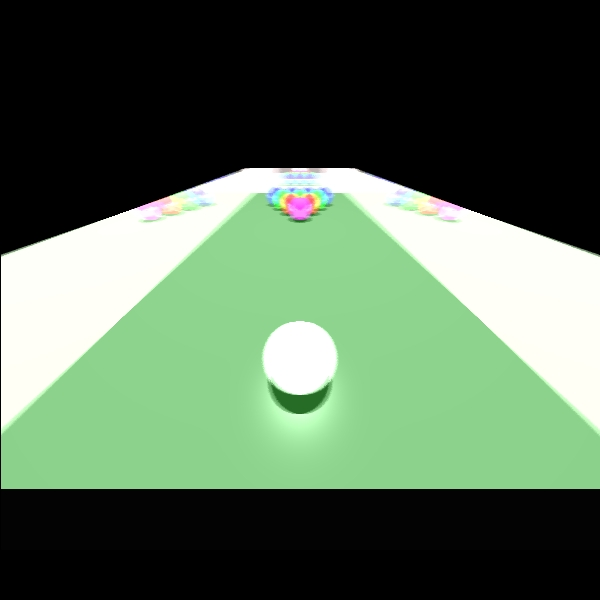
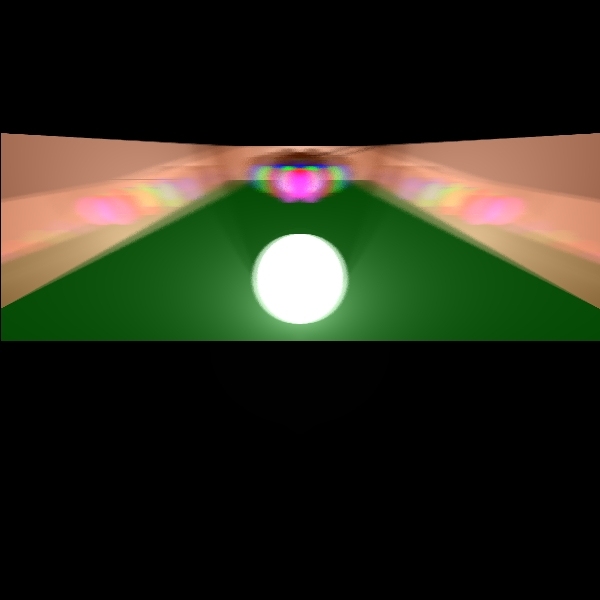
begin stage 5

diff --git a/IME5780-E1-5840-6639/src/unittests/Depth_of_field.java b/IME5780-E1-5840-6639/src/unittests/Depth_of_field.java
@@ -21,80 +21,94 @@ import java.util.Random;
 public class Depth_of_field {
     @Test
     public void snookerTable() {
-        Point3D upRightCorner = new Point3D(120, -250, 0);
-        Point3D upLeftCorner = new Point3D(-120, -250, 0);
-        Point3D downRightCorner = new Point3D(120, 250, 0);
-        Point3D downLeftCorner = new Point3D(-120, 250, 0);
+        Point3D upRightCorner = new Point3D(120, -200, 0);
+        Point3D upLeftCorner = new Point3D(-120, -200, 0);
+        Point3D downRightCorner = new Point3D(120, 200, 0);
+        Point3D downLeftCorner = new Point3D(-120, 200, 0);
         double radiusOfBalls = 15;
 
         Scene scene = new Scene("Depth of field");
-        scene.setCamera(new Camera(new Point3D(0, 230, -80), new Vector(0, -1, 1), new Vector(0, -1, -1),3));
+        scene.setCamera(new Camera(new Point3D(0, 200, -45), new Vector(0, -1, 1), new Vector(0, -1, -1),2));
         scene.setViewPlaneDistance(50);
-        scene.setFocalPlaneDistance(50);
+        scene.setFocalPlaneDistance(10);
         scene.setBackground(Color.BLACK);
-        scene.setAmbientLight(new AmbientLight(new Color(java.awt.Color.WHITE), 0.15));
+        scene.setAmbientLight(new AmbientLight(new Color(java.awt.Color.WHITE), 0.00));
 
-        Color triangleColor = new Color(122,112,112);
+        Color triangleColor = new Color(80,25,0);
         Triangle[] borders = new Triangle[8];
-        Material triangleMaterial = new Material(0.5, 0.5, 60,0,0.8);
+        Material triangleMaterial = new Material(0.5, 0.5, 60,0,0.3);
 
         borders[0] = new Triangle(triangleColor,triangleMaterial , //
-                upRightCorner, downRightCorner, new Point3D(downRightCorner.get_x(),downRightCorner.get_y(),-50));
+                upRightCorner, downRightCorner, new Point3D(downRightCorner.get_x()+5,downRightCorner.get_y(),-50));
         borders[1] = new Triangle(triangleColor,triangleMaterial, //
-                upRightCorner,new Point3D(downRightCorner.get_x(),downRightCorner.get_y(),-50) , new Point3D(upRightCorner.get_x(),upRightCorner.get_y(),-50));
+                upRightCorner,new Point3D(downRightCorner.get_x()+5,downRightCorner.get_y(),-50) , new Point3D(upRightCorner.get_x()+5,upRightCorner.get_y(),-50));
         borders[2] = new Triangle(triangleColor, triangleMaterial, //
-                upRightCorner, upLeftCorner, new Point3D(downRightCorner.get_x(),upRightCorner.get_y(),-50));
+                upRightCorner, upLeftCorner, new Point3D(upRightCorner.get_x()+5,upRightCorner.get_y(),-50));
         borders[3] = new Triangle(triangleColor, triangleMaterial, //
-                upLeftCorner,new Point3D(upLeftCorner.get_x(),upLeftCorner.get_y(),-50) , new Point3D(upRightCorner.get_x(),upRightCorner.get_y(),-50));
+                upLeftCorner,new Point3D(upLeftCorner.get_x()-5,upLeftCorner.get_y(),-50) , new Point3D(upRightCorner.get_x()-5,upRightCorner.get_y(),-50));
         borders[4] = new Triangle(triangleColor, triangleMaterial, //
-                upLeftCorner, downLeftCorner, new Point3D(upLeftCorner.get_x(),upLeftCorner.get_y(),-50));
+                upLeftCorner, downLeftCorner, new Point3D(upLeftCorner.get_x()-5,upLeftCorner.get_y(),-50));
         borders[5] = new Triangle(triangleColor, triangleMaterial, //
-                downLeftCorner,new Point3D(upLeftCorner.get_x(),upLeftCorner.get_y(),-50) , new Point3D(downLeftCorner.get_x(),downLeftCorner.get_y(),-50));
+                downLeftCorner,new Point3D(upLeftCorner.get_x()-5,upLeftCorner.get_y(),-50) , new Point3D(downLeftCorner.get_x()-5,downLeftCorner.get_y(),-50));
 
         scene.addGeometries(borders[0],borders[1],borders[2],borders[3],borders[4],borders[5]);
 
         addBalls(upRightCorner,downRightCorner,upLeftCorner,downLeftCorner,radiusOfBalls,scene);
 
         scene.addGeometries( //
-                new Triangle(new Color(0,70,0), new Material(0.5, 0.5, 60), //
+                new Triangle(new Color(0,70,0), new Material(0.5, 0.5, 60,0.1,0), //
                         upRightCorner, downRightCorner, downLeftCorner), //
-                new Triangle(new Color(0,70,0), new Material(0.5, 0.5, 60), //
+                new Triangle(new Color(0,70,0), new Material(0.5, 0.5, 60,0.1,0), //
                         upRightCorner, upLeftCorner, downLeftCorner));
 
-        scene.addLights(new PointLight(new Color(java.awt.Color.WHITE),new Point3D(-0,0,-880) ,1,4E-5, 2E-7));
+        scene.addLights(new PointLight(new Color(java.awt.Color.WHITE),new Point3D(-0,0,10) ,1,4E-5, 2E-7));
 
         ImageWriter imageWriter = new ImageWriter("snooker table", 200, 200, 600, 600);
         Render render = new Render(imageWriter, scene).setMultithreading(3).setDebugPrint();
 
-        render.renderImage(60);
+        render.renderImage(100);
         render.writeToImage();
     }
 public void addBalls(Point3D upRight, Point3D downRight, Point3D upLeft, Point3D downLeft, double radiusOfBalls, Scene scene){
-        Random rand = new Random();
+    Vector moveLight = new Vector(0,2,-1);
+    Color lightColor = new Color(java.awt.Color.WHITE);
+    Material sphereMaterial = new Material(0.5, 0.5, 60,0.1,0);
+    SpotLight spots = new SpotLight(lightColor,new Point3D(0,0,-radiusOfBalls).add(moveLight),moveLight.scale(-1),1, 4E-5, 2E-7);
         Sphere[] balls = new Sphere[11];
-
         for (int i = 0; i < 4; i++){
-            balls[i] = new Sphere(new Color(java.awt.Color.BLUE),new Material(0.5, 0.5, 60,0,0.6),radiusOfBalls,//
-                    new Point3D(upRight.get_x()/2 - (i*radiusOfBalls*2+radiusOfBalls),upRight.get_y()/2,-radiusOfBalls));
+            Point3D temp = new Point3D(upRight.get_x()/2 - (i*radiusOfBalls*2+radiusOfBalls),upRight.get_y()/2,-radiusOfBalls);
+            balls[i] = new Sphere(new Color(java.awt.Color.BLUE),sphereMaterial,radiusOfBalls,//
+                    temp);
+            //spots[i] = new SpotLight(lightColor,temp.add(moveLight),moveLight.scale(-1),1, 4E-5, 2E-7);
         }
         for (int i = 4 , j =0; i < 7; i++, j++){
-            balls[i] = new Sphere(new Color(java.awt.Color.GREEN),new Material(0.5, 0.5, 60,0,0.6),radiusOfBalls,//
-                    new Point3D(upRight.get_x()/2 - radiusOfBalls - (j*radiusOfBalls*2+radiusOfBalls),upRight.get_y()/2+radiusOfBalls*2,-radiusOfBalls));
+            Point3D temp = new Point3D(upRight.get_x()/2 - radiusOfBalls - (j*radiusOfBalls*2+radiusOfBalls),upRight.get_y()/2+radiusOfBalls*2,-radiusOfBalls);
+            balls[i] = new Sphere(new Color(java.awt.Color.GREEN),sphereMaterial,radiusOfBalls,//
+                    temp);
+            //spots[i] = new SpotLight(lightColor,temp.add(moveLight),moveLight.scale(-1),1, 4E-5, 2E-7);
         }
         for (int i = 7, j = 0; i < 9; i++, j++){
-            balls[i] = new Sphere(new Color(java.awt.Color.RED),new Material(0.5, 0.5, 60,0,0.6),radiusOfBalls,//
-                    new Point3D(upRight.get_x()/2 - radiusOfBalls*2 - (j*radiusOfBalls*2+radiusOfBalls),upRight.get_y()/2+radiusOfBalls*4,-radiusOfBalls));
+            Point3D temp =new Point3D(upRight.get_x()/2 - radiusOfBalls*2 - (j*radiusOfBalls*2+radiusOfBalls),upRight.get_y()/2+radiusOfBalls*4,-radiusOfBalls);
+            balls[i] = new Sphere(new Color(java.awt.Color.RED),sphereMaterial,radiusOfBalls,//
+                    temp);
+            //spots[i] = new SpotLight(lightColor,temp.add(moveLight),moveLight.scale(-1),1, 4E-5, 2E-7);
         }
         for (int i = 9, j = 0; i < 10; i++, j++){
-            balls[i] = new Sphere(new Color(java.awt.Color.MAGENTA),new Material(0.5, 0.5, 600,0,0.6),radiusOfBalls,//
-                    new Point3D(upRight.get_x()/2 - radiusOfBalls*3 - (j*radiusOfBalls*2+radiusOfBalls),upRight.get_y()/2+radiusOfBalls*6,-radiusOfBalls));
+            Point3D temp = new Point3D(upRight.get_x()/2 - radiusOfBalls*3 - (j*radiusOfBalls*2+radiusOfBalls),upRight.get_y()/2+radiusOfBalls*6,-radiusOfBalls);
+            balls[i] = new Sphere(new Color(java.awt.Color.MAGENTA),sphereMaterial,radiusOfBalls,//
+                    temp);
         }
-        balls[10] = new Sphere(new Color(java.awt.Color.WHITE),new Material(0.5, 0.5, 60,0,0.6),radiusOfBalls,//
-                    new Point3D(0,downLeft.get_y()*4/5,-radiusOfBalls));
+        Point3D temp = new Point3D(0,downLeft.get_y()*4/5,-radiusOfBalls);
+        balls[10] = new Sphere(new Color(java.awt.Color.WHITE),sphereMaterial,radiusOfBalls,//
+                    temp);
+        SpotLight spot = new SpotLight(lightColor,new Point3D(0,downLeft.get_y()*4/5+radiusOfBalls/2,-radiusOfBalls+1),moveLight.scale(-1),1, 4E-5, 2E-7);
+        SpotLight spot1 = new SpotLight(lightColor,new Point3D(0,195,-15),new Vector(0,-1,0.31),1, 4E-5, 2E-7);
+        scene.addLights(spot,spot1);
         for (int i = 0; i < 11; i++){
             scene.addGeometries(balls[i]);
+
         }
 
-    }
+}
 
 }
